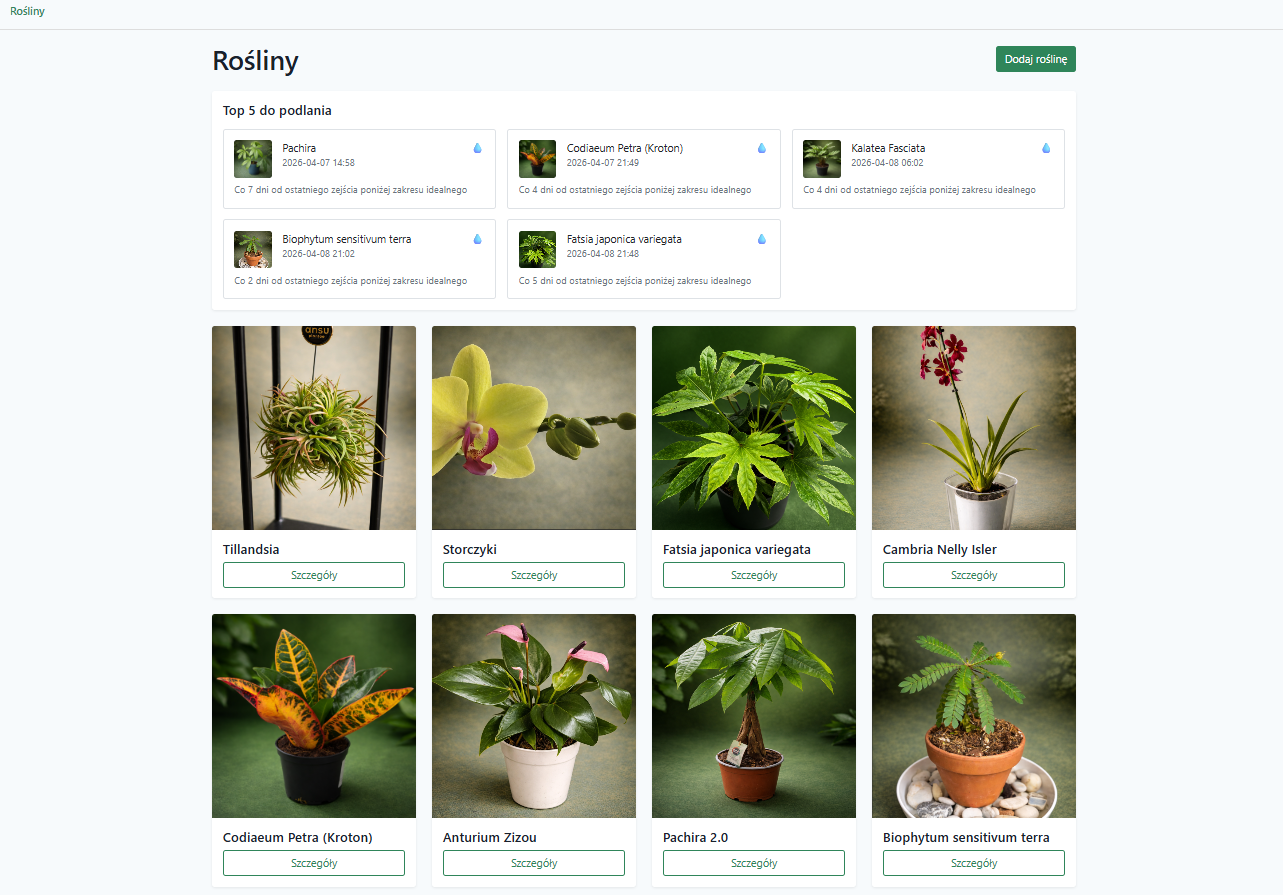
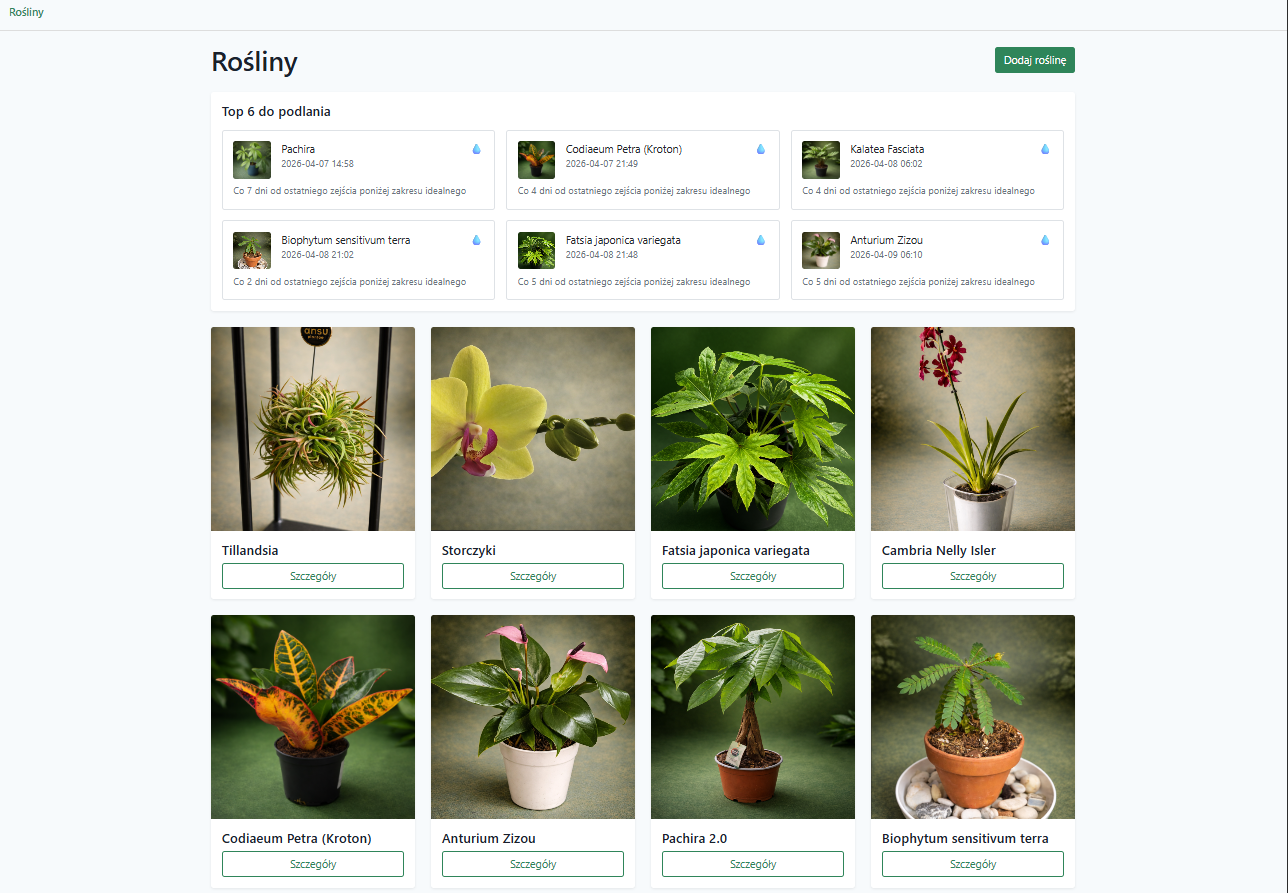
top6 do podlania

diff --git a/resources/views/plants/index.blade.php b/resources/views/plants/index.blade.php
@@ -13,7 +13,7 @@
     @if(isset($topWateringPlants) && $topWateringPlants->isNotEmpty())
         <div class="card border-0 shadow-sm mb-4">
             <div class="card-body">
-                <h5 class="card-title mb-3">Top 5 do podlania</h5>
+                <h5 class="card-title mb-3">Top 6 do podlania</h5>
 
                 <div class="row g-3">
                     @foreach($topWateringPlants as $item)

diff --git a/app/Http/Controllers/PlantController.php b/app/Http/Controllers/PlantController.php
@@ -32,7 +32,7 @@ class PlantController extends Controller
             })
             ->filter()
             ->sortBy(fn ($item) => $item['prediction']['date']->timestamp)
-            ->take(5)
+            ->take(6)
             ->values();
 
         return view('plants.index', compact('plants', 'topWateringPlants'));
